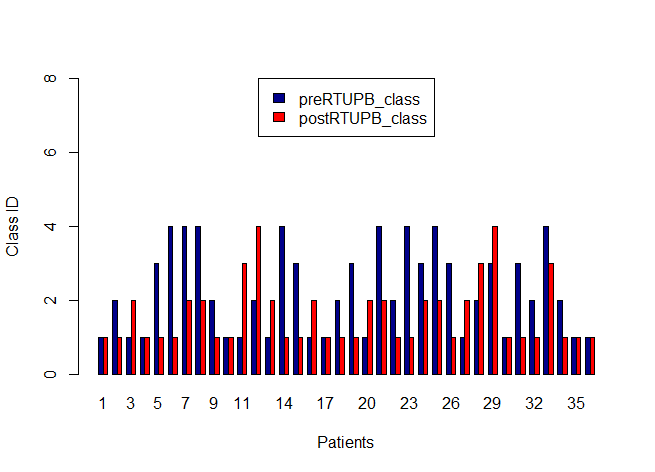
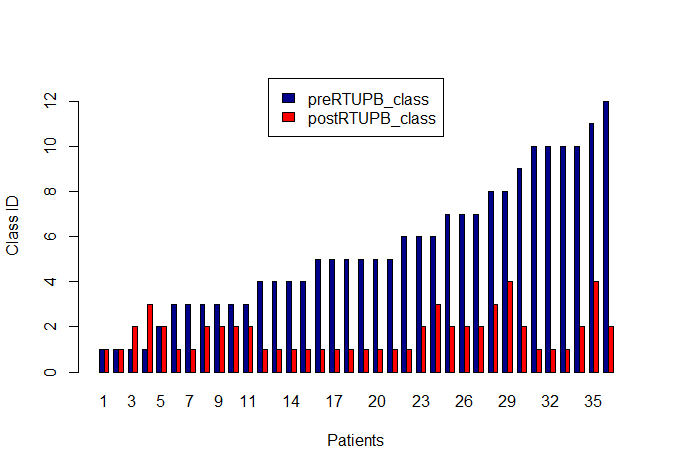
Mapping pre-op/post-op

diff --git a/latex/includes/profile-map.tex b/latex/includes/profile-map.tex
@@ -8,13 +8,27 @@
 \begin{figure}[H]
 \centering
 \includegraphics[width=0.75\textwidth]{../Fig/RTUPB/rtupb-histogram-pre-post.png}
-\caption{RTUPB: classes pré et post opératoires}
+\caption{RTUPB: classes post-opératoires en fonction des classes pré-opératoires}
+\label{fig-rtupb-histogram}
+\end{figure}
+
+\begin{figure}[H]
+\centering
+\includegraphics[width=0.75\textwidth]{../Fig/RTUPB/rtupb-histogram-post-pre.png}
+\caption{RTUPB: classes pré-opératoires en fonction des classes post-opératoires}
 \label{fig-rtupb-histogram}
 \end{figure}
 
 \begin{figure}[H]
 \centering
 \includegraphics[width=0.75\textwidth]{../Fig/VPPBS/vppbs-histogram-pre-post.png}
-\caption{VPPBS: classes pré et post opératoires}
+\caption{VPPBS: classes post-opératoires en fonction des classes pré-opératoires}
+\label{fig-vppbs-histogramFi	}
+\end{figure}
+
+\begin{figure}[H]
+\centering
+\includegraphics[width=0.75\textwidth]{../Fig/VPPBS/vppbs-histogram-post-pre.png}
+\caption{VPPBS: classes pré-opératoires en fonction des classes post-opératoires}
 \label{fig-vppbs-histogramFi	}
 \end{figure}
